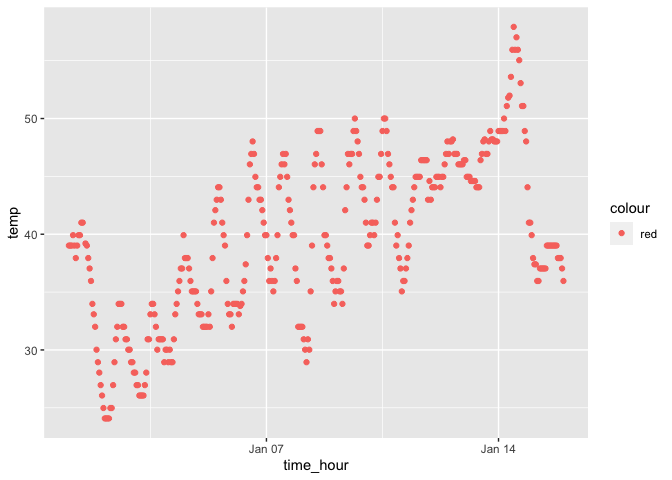
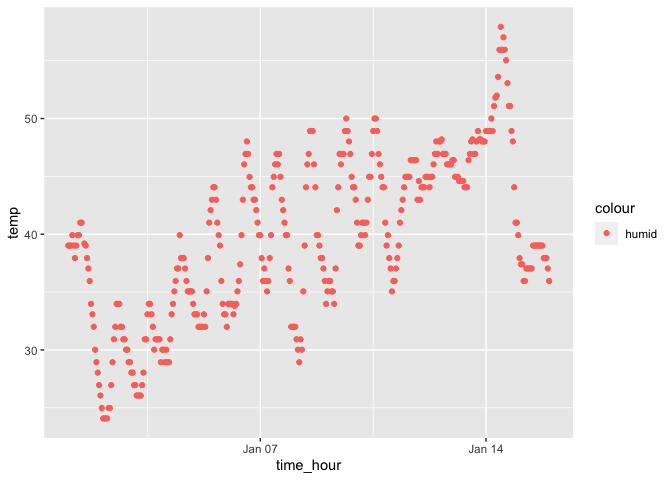
Homework

diff --git a/p8105_hw1_th3072.md b/p8105_hw1_th3072.md
@@ -2,8 +2,6 @@ p8105_hw1_th3072
 ================
 2023-09-20
 
-\#Problem 1
-
 ``` r
 library(moderndive)
 library(tidyverse)
@@ -24,8 +22,107 @@ library(tidyverse)
 data("early_january_weather")
 ```
 
+\#Problem 1
+
+## Variable of Dataset:
+
+day, hour, temp, dewp,humid,wind_dir, wind_speed,wind_gust,precip,
+pressure, visib, time_hour
+
+## Size of the Dataset:
+
 ``` r
-ggplot(early_january_weather, aes(x = time_hour, y = temp, color = "red")) + geom_point()
+nrow(early_january_weather)
+```
+
+    ## [1] 358
+
+``` r
+ncol(early_january_weather)
+```
+
+    ## [1] 15
+
+## Mean of temp
+
+``` r
+mean(early_january_weather$temp)
+```
+
+    ## [1] 39.58212
+
+## Scatterplot of time_hour and temp
+
+``` r
+ggplot(early_january_weather, aes(x = time_hour, y = temp, color = "humid")) + geom_point()
 ```
 
 ![](p8105_hw1_th3072_files/figure-gfm/yx_scatter-1.png)<!-- -->
+
+``` r
+ggsave("Problem_1_scatter.pdf")
+```
+
+    ## Saving 7 x 5 in image
+
+\#Problem 2
+
+``` r
+random_sample = rnorm(10)
+length(random_sample)
+```
+
+    ## [1] 10
+
+``` r
+logical_vector <- random_sample >0
+
+character_vector <- letters[1:10]
+
+factor_vector <- factor(rep(c("red", "green","blue"), times = c(4,2,4)))
+```
+
+``` r
+df <- data.frame(random_sample, logical_vector, character_vector, factor_vector)
+```
+
+``` r
+mean(random_sample)
+```
+
+    ## [1] 0.09051706
+
+``` r
+mean(pull(df,logical_vector))
+```
+
+    ## [1] 0.4
+
+``` r
+mean(pull(df,character_vector))
+```
+
+    ## Warning in mean.default(pull(df, character_vector)): argument is not numeric or
+    ## logical: returning NA
+
+    ## [1] NA
+
+``` r
+mean(pull(df,factor_vector))
+```
+
+    ## Warning in mean.default(pull(df, factor_vector)): argument is not numeric or
+    ## logical: returning NA
+
+    ## [1] NA
+
+``` r
+numeric_logical <- as.numeric(logical_vector)
+numeric_logical <- as.numeric(character_vector)
+```
+
+    ## Warning: NAs introduced by coercion
+
+``` r
+numeric_logical <- as.numeric(factor_vector)
+```
